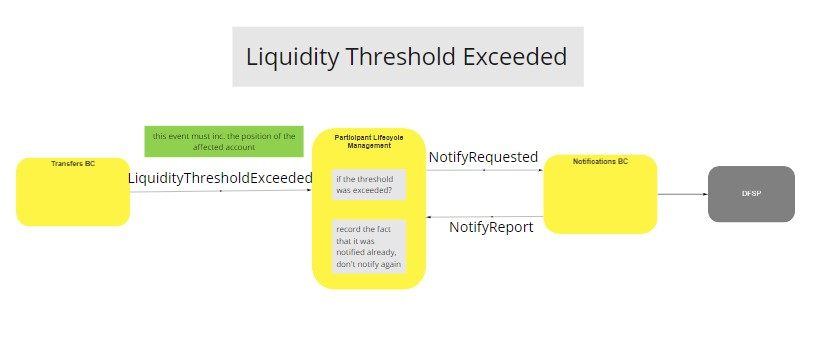
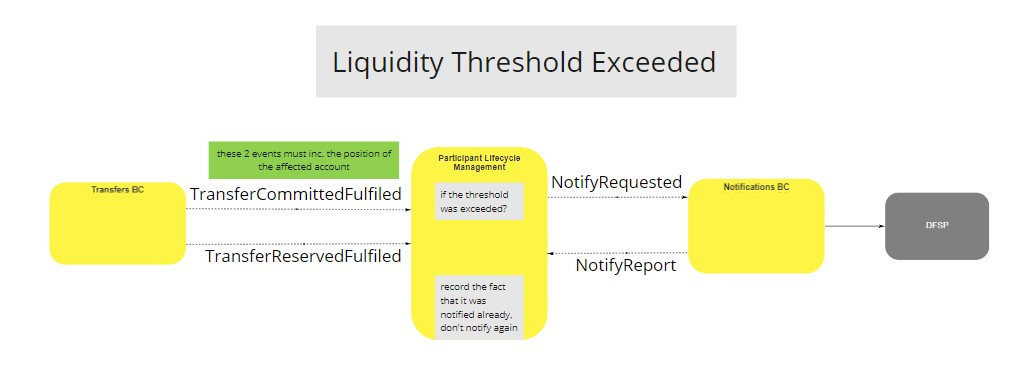
Finished documentation on the BC and uploaded additional use cases

Changed region(s): [[0.0, 0.337, 0.965, 0.8886], [0.2714, 0.0613, 0.7238, 0.2758]]

diff --git a/docs/refarch/boundedContexts/participantLifecycleManagement/index.md b/docs/refarch/boundedContexts/participantLifecycleManagement/index.md
@@ -1,75 +1,192 @@
-# Participant Lifecycle BC
+# Participant Lifecycle Management BC
 
-The Participant Lifecycle Bounded Context's primary concern regards anything to do with the management of a Participant within the Mojaloop Environment. 
-TODO:
- Maker-Checker Process. [^1]
- Configuration & Bootstrapping
- Operations & Admin API
- Participant endpoints
- Participants can only have one account per allowed currency
+The Participant Lifecycle Bounded Context's primary concern regards anything to do with the management of a Participant within the Mojaloop Environment. When we are defining the Participant Lifecycle Management Bounded Context there are a few key concepts that should be clearly defined.
 
+**Maker-Checker Process**
+The Maker-Checker Process establishes the 6 eye verification and ensure that no write action takes place without being validated by some one with adiquite permissions. These permissions are defined by the Participant Lifecycle Management Bounded Context but are configurable and assignable as needed by the Scheme Rules. It is recommended that the users/roles that receive the maker permissions do not receive the checker permissions, and that the checker permissions are assigned to different users/roles. It will still be possible to assign both responsibilities to the same users/roles but this then voids the security that is provided by the maker-checker process that the system was built to support.
+
+**Participant States**
+The participant state management allows the admin operators to control permissions for a given participant based on their state. During the Platform Configuration phase, the Participant Lifecycle Management Bounded Context expects participant states to be defined and configured with either roles/permissions. The participant states can then be assigned to a given participant through the Participant Status Management process.
 
 ## Terms
 
 Terms with specific and commonly accepted meaning within the Bounded Context in which they are used.
 
-| Term | Description |
-|---|---|
-| Term1 | Description1 |
+| Term        | Description  |
+| ----------- | ------------ |
+| Participant | Description1 |
+| Maker       | Description1 |
+| Checker     | Description1 |
+
+## Functional Overview
+
+![Use Case - Example REPLACE ME](./assets/0-functional-overview.jpg)
+
+> Create Participant (Single Step Registration)
 
 ## Use Cases
 
-
 ### Create Participant (Single Step Registration)
 
+#### Description
+
+Process to create a Participant on the Mojaloop ecosystem, this usually requires all the information that relates to the participant and the initial accounts needed.
+
+#### Flow Diagram
+
 ![Use Case - Example REPLACE ME](./assets/1-create-participant.jpg)
+
 > Create Participant (Single Step Registration)
 
 ### Manage Funds
 
+#### Description
+
+Process to either withdraw or deposit funds to the Participant's account(s).
+
+#### Flow Diagram
+
 ![Use Case - Example REPLACE ME](./assets/2-manage-funds.jpg)
+
 > Manage Funds
 
 ### Update Endpoints
 
+#### Description
+
+Updates the endpoint of a given participant, when the request has been approved the endpoint will be called on a keep alive path to ensure connectivity.
+
+#### Flow Diagram
+
 ![Use Case - Example REPLACE ME](./assets/3-update-endpoints.jpg)
+
 > Update Endpoints
 
 ### Update Participant Status
 
+#### Description
+
+Changes the Status of a given participant to enforce different roles/scheme rules on the participant.
+
+#### Flow Diagram
+
 ![Use Case - Example REPLACE ME](./assets/4-participant-update-status.jpg)
+
 > Update Participant Status
 
 ### Get Participant
 
+#### Description
+
+Gets information with about a given participant.
+
+#### Flow Diagram
+
 ![Use Case - Example REPLACE ME](./assets/7-get-participant.jpg)
+
 > Get Participant
 
 ### Participant Accounts
 
-**Add Participant Account**
-**Update Participant Account Status (Enable/Disable)**
-**Update Liquidity Limits and Warning Thresholds**
+#### Description
+
+These process controls different aspects of a Participant's accounts, from creating an account, enabling/disabling and update the limits and threshold warnings of an account. sub-processes included in this use case are:
+
+-   Add Participant Account
+-   Update Participant Account Status (Enable/Disable)
+-   Update Liquidity Limits and Warning Thresholds
+
+#### Flow Diagram
 
 ![Use Case - Example REPLACE ME](./assets/5-participant-accounts.jpg)
+
 > Participant Accounts
 
 ### Reserve Liquidity Cover
 
+#### Description
+
+Reserves liquidity cover for a Participant and notifies the Accounts and Balances BC about the changes.
+
+#### Flow Diagram
+
 ![Use Case - Example REPLACE ME](./assets/6-liquidity-cover-reservations.jpg)
+
 > Reserve Liquidity Cover
 
 ### Liquidity Threshold Exceeded
 
+#### Description
+
+This process notifies the participant that the liquidity threshold,that has been set beforehand, has been reach and action might be required.
+
+#### Flow Diagram
+
 ![Use Case - Example REPLACE ME](./assets/8-liquidity-threshold-exceeded.jpg)
+
 > Liquidity Threshold Exceeded
+
+### Liquidity Limit Exceeded
+
+#### Description
+
+This process notifies the participant when ha reached the liquidity limit that was set.
+
+#### Flow Diagram
+
+![Use Case - Example REPLACE ME](./assets/10-liquidity-limit-exceeded.jpg)
+
+> Liquidity Limit Exceeded
+
+### Liquidity Threshold & Limit Reset
+
+#### Description
+
+This process resets the liquidity limit or threshold notification checks when successful transfers have been executed and the position is in a positive state.
+
+#### Flow Diagram
+
+![Use Case - Example REPLACE ME](./assets/11-liquidity-limit-and-threshold-reset.jpg)
+
+> Liquidity Limit Exceeded
 
 ### Liquidity Cover Queries
 
+#### Description
+
+Queries to check the current liquidity as well as other read operations that are related to Liquidity.
+
+#### Flow Diagram
+
 ![Use Case - Example REPLACE ME](./assets/9-liquidity-cover-queries.jpg)
+
 > Liquidity Cover Queries
 
+## Cononical Model
+
+-   Participant
+    -   id
+    -   participantAlias
+    -   endpointURL
+    -   state
+    -   Accounts
+        -   accountID
+        -   ledgerAccountType
+        -   accountCurrency
+        -   isActive
+        -   warningThreshold
+        -   limit
+            -   type
+            -   value
+
+## Concluding Comments
+
+**Participant Accounts:** Participants can only have one account per allowed currency.
+**Update Position Use Case:** Has been changed to the Manage Funds use case
+**Maker/Checker Operations:** Retry count has no effect on the way we process/re-process requests.
+
 <!-- Footnotes themselves at the bottom. -->
+
 ## Notes
 
 [^1]: Common Interfaces: [Mojaloop Common Interface List](../../commonInterfaces.md)
